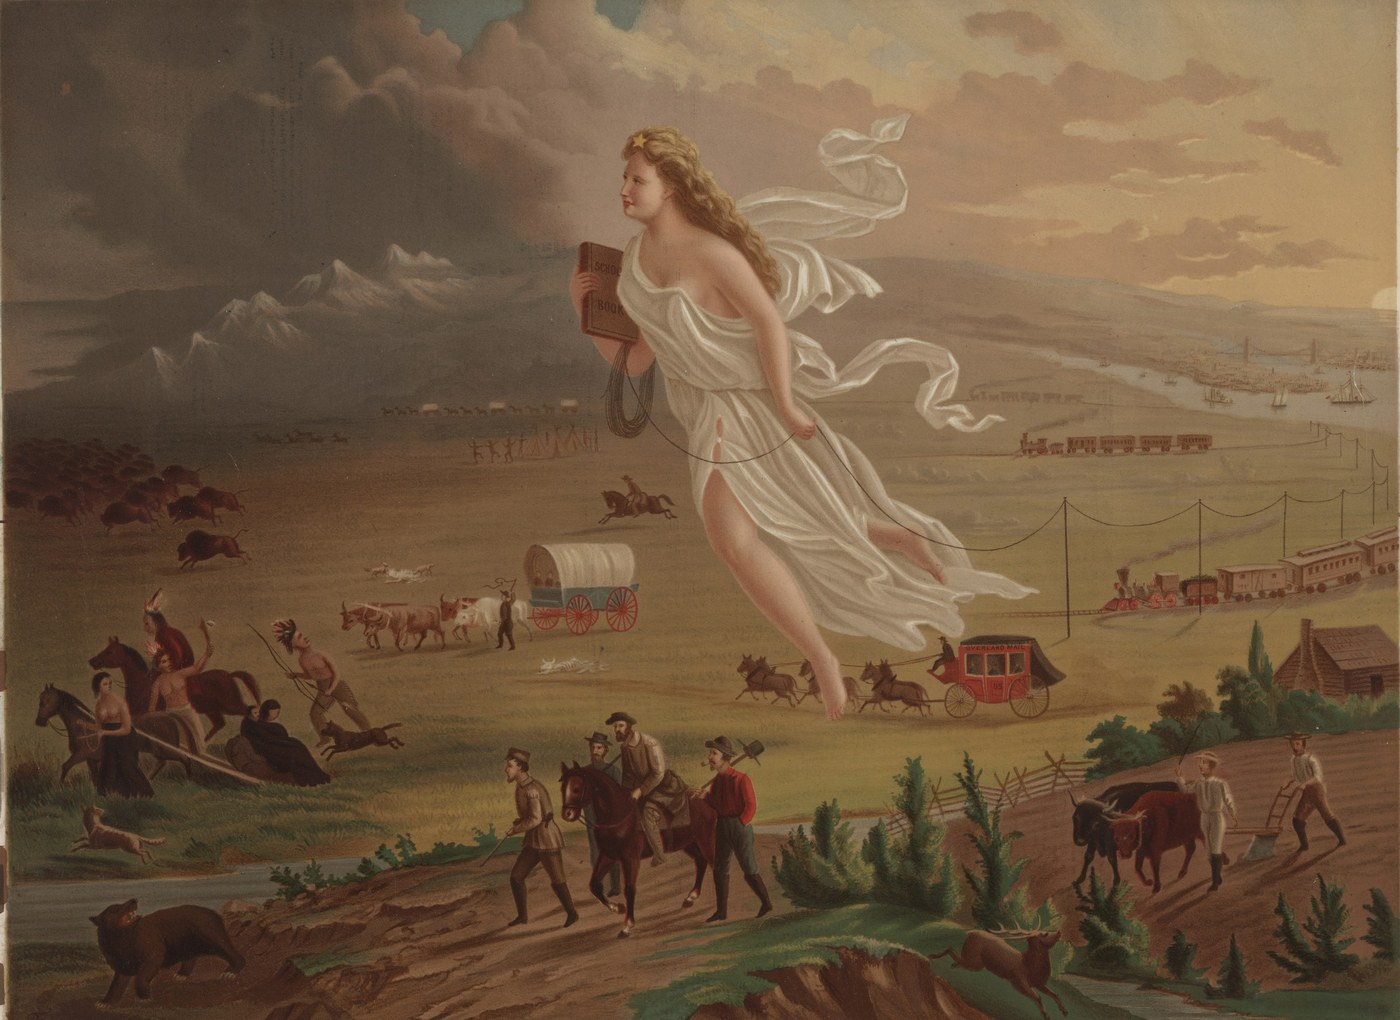
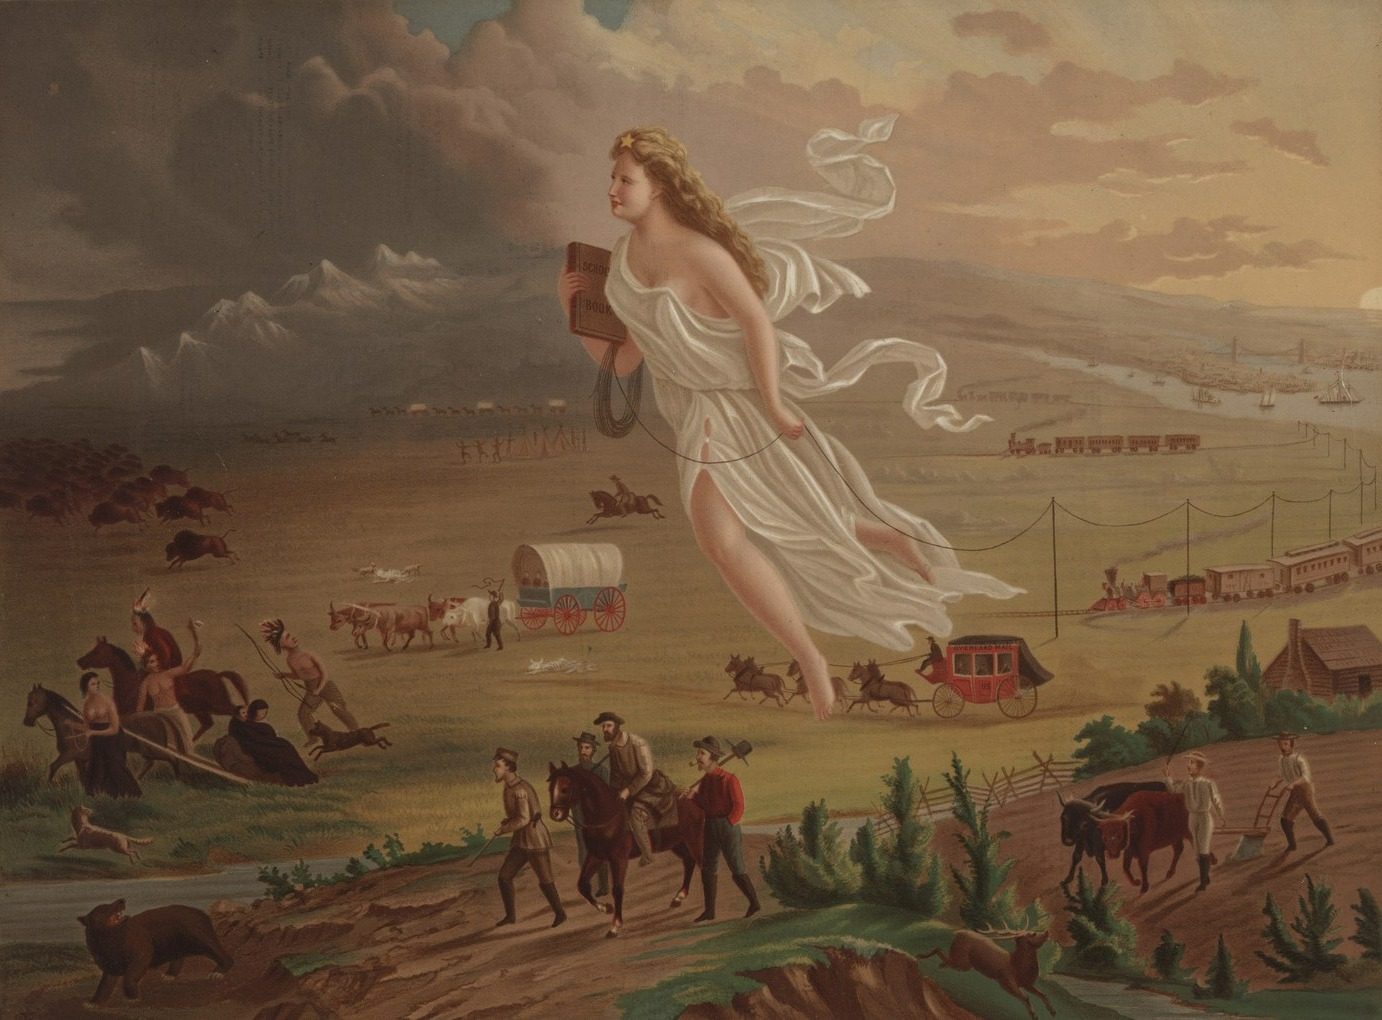
Add files via upload

diff --git a/chapter-17.html b/chapter-17.html
@@ -627,7 +627,7 @@ class Component extends DCLogic {
     const tab = on => ({ bg: on ? G : 'transparent', color: on ? '#16171a' : '#c8c4bc', border: on ? G : '#3a3d44' });
     const img = (key, ratio, maxW, caption, credit) => ({ isImage: true, slot: 'c17-' + key, src: '' + key + '.jpg', ratio, maxW, caption, credit: credit ? 'Credit: ' + credit : '', hasCredit: !!credit });
     const F = {
-      progress: img("american-progress", "1400/1020", "760px", "Figure 17.1 · American Progress, the chromolithograph George A. Crofutt issued in 1873 after John Gast’s painting of 1872. The canvas itself hangs at the Autry Museum of the American West.", "Library of Congress, Prints and Photographs Division, LC-DIG-ppmsca-09855"),
+      progress: img("american-progress", "1382/1020", "760px", "Figure 17.1 · American Progress, the chromolithograph George A. Crofutt issued in 1873 after John Gast’s painting of 1872. The canvas itself hangs at the Autry Museum of the American West.", "Library of Congress, Prints and Photographs Division, LC-DIG-ppmsca-09855"),
       catlin: img("catlin-comanche-war-party", "1400/1007", "720px", "Figure 17.2 · George Catlin, Comanche War Party on the March, Fully Equipped, 1846–1848, oil on canvas.", "Smithsonian American Art Museum, Gift of Mrs. Joseph Harrison, Jr., 1985.66.596"),
       alamo: img("fall-of-the-alamo", "1400/933", "760px", "Figure 17.3 · Robert Jenkins Onderdonk’s The Fall of the Alamo, painted in 1903, nearly seventy years after the battle, shows David Crockett swinging his rifle in the last fight. One Mexican officer’s account has him captured and executed instead.", "Texas Governor’s Mansion, Austin; Friends of the Governor’s Mansion"),
       drummer: img("mexican-war-drummer", "1400/1570", "420px", "Figure 17.4 · A drummer in uniform, photographed about 1846, during the time of the Mexican War. Sixth-plate daguerreotype in its case; neither the sitter nor the photographer is identified.", "Library of Congress, Prints and Photographs Division, LC-DIG-ppmsca-38362"),
